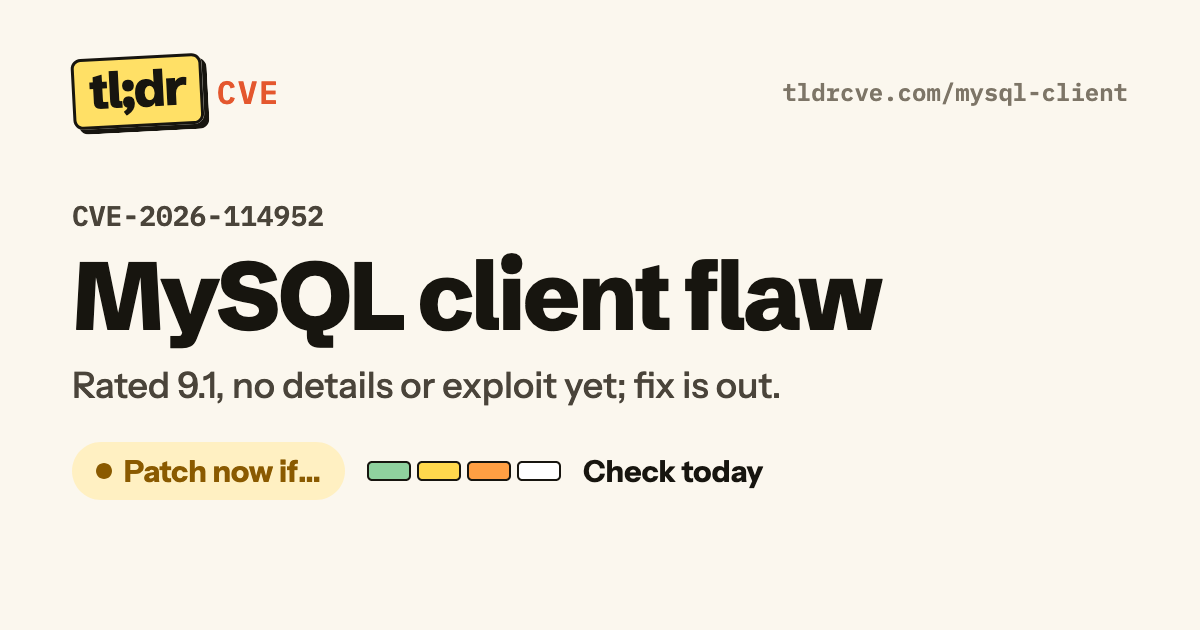
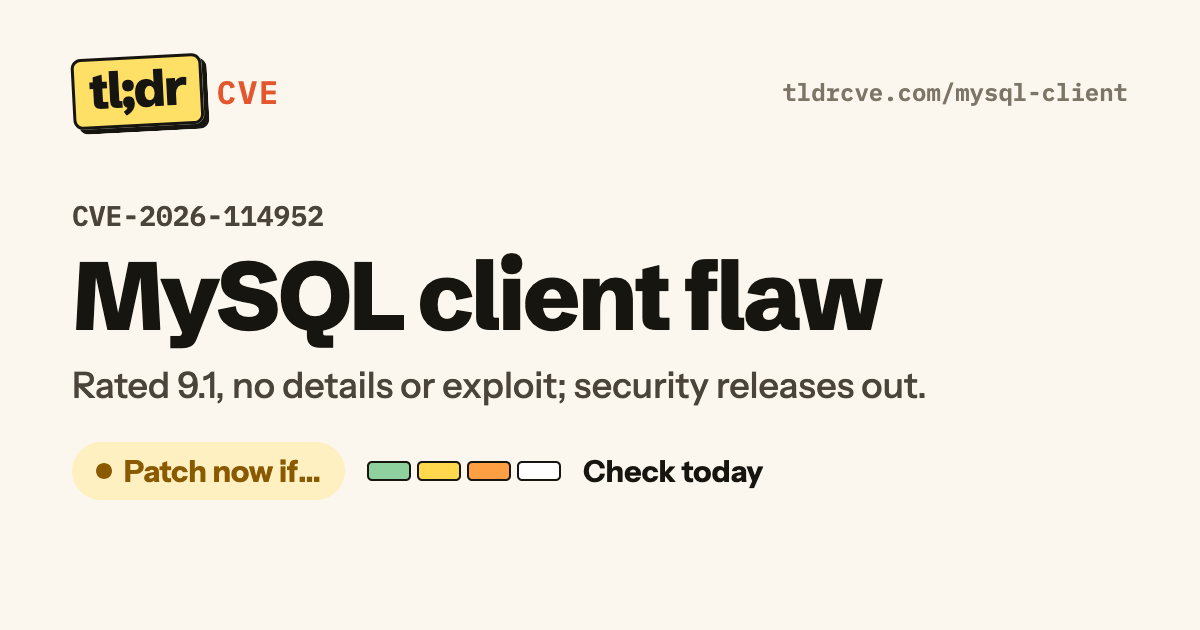
Review fixes from Sol, Codex and the blueprint checks
- Brotli: ELLIO reproduced the public exploit on official, unmodified Node.js
  builds and saw it in attacks, so the page no longer says it needs a weakened
  build; Java JNI wrappers are affected; patched 1.0.10 and 1.1.1 excluded.
- MySQL: TL;DR covers MySQL Cluster 8.0 (fixes on 26 Nov); the second GitHub
  exploit's link to this CVE is unverified; tile says security releases are out.
- Wording and support fixes on iTerm2, Next.js, 4EverAble2Shell, Cisco,
  Java4Shell, OpenSSL, React, SGLang and Synology; tile lines on LiteLLM, PHP,
  Spring and WhatsApp; five TL;DRs cut to three sentences.
- Changelog: Brotli, REDCap, Tomcat, Next.js and SSHole entries are material.
- Feed: Brotli's old 20 Nov GUID added to LEGACY_GUIDS, so no live item is
  re-sent.
- AGENTS.md: one affected range or one update target is fine in a TL;DR; fix
  steps may quote the vendor's exact upgrade command, checks stay read-only.

Changed region(s): [[0.4625, 0.573, 0.7708, 0.6333]]

diff --git a/build.py b/build.py
@@ -1292,6 +1292,7 @@ LEGACY_GUIDS = {
     "react-typed-array-rce-2026-11-21-0": "react-typed-array-rce-2026-11-21-1",
     "wordpress-7-1-5-2026-11-21-0": "wordpress-7-1-5-2026-11-21-1",
     "nextjs-image-rce-2026-11-21-0": "nextjs-image-rce-2026-11-21-1",
+    "brotli-2026-11-20-0": "brotli-2026-11-20-1",
 }
 
 

diff --git a/AGENTS.md b/AGENTS.md
@@ -78,7 +78,7 @@ Copy the shape of an existing file (`content/nginx2root.json` is a good model).
 | `updated` | `YYYY-MM-DD` of the last edit |
 | `verdict` | `now`, `if`, `cycle` or `watch` (see below) |
 | `tile_line` | The reason for the verdict, about 55 chars max. It sits next to the verdict badge and on the link card, so never repeat the verdict or the action ("Exploited, no login. In CISA KEV.", not "Patch now.") |
-| `tldr` | **Required, ≤ 256 chars.** The answer, in up to three short, plain sentences, in this order: what it is, how scary (exploit, attacks, KEV), who is affected, what to do. Don't open with the page's nickname ("NoisyTCP: …"; the title is right above); the product as the subject ("SGLang, a popular AI model server, …") is fine. No commands, version lists or dates that go stale (KEV due dates). Used at the top of the page and as the meta description, the feed item and the "Copy TL;DR" text. Every claim must already be on the page; update it whenever the verdict, status or fix changes. When it corrects something the page said before, add a `changes[]` entry so feed readers see the correction |
+| `tldr` | **Required, ≤ 256 chars.** The answer, in up to three short, plain sentences, in this order: what it is, how scary (exploit, attacks, KEV), who is affected, what to do. Don't open with the page's nickname ("NoisyTCP: …"; the title is right above); the product as the subject ("SGLang, a popular AI model server, …") is fine. No commands, lists of several fixed versions, or dates that go stale (KEV due dates); one affected range or one version to update to is fine. Used at the top of the page and as the meta description, the feed item and the "Copy TL;DR" text. Every claim must already be on the page; update it whenever the verdict, status or fix changes. When it corrects something the page said before, add a `changes[]` entry so feed readers see the correction |
 | `summary` | **More details**, under the TL;DR: 1-3 sentences with only what the TL;DR leaves out, such as how the bug works, who found it, numbers, where sources disagree, related bugs, useful trivia and the one setting or command that matters most. Never repeat the TL;DR, but don't drop facts either: each one belongs in the TL;DR, here, or a section below |
 | `status.exploit` | `public` (working code anyone can download), `demonstrated` (shown, code not public) or `none` |
 | `status.attacks` | `seen` (a credible, named report) or `none` |
@@ -123,7 +123,7 @@ When a vulnerability gets attention but doesn't qualify yet, record it instead o
   - Never invent versions, flags, commands or dates.
   - When sources conflict, say so on the page.
 - **"Are you affected?"** lists only conditions that must all be true. No "or" items. Fold "not affected if…" details into the matching condition.
-- **Commands** must be read-only and exact.
+- **Commands** must be exact. Check commands (`cmd` fields, "Are you affected?") must be read-only; a fix step may name the vendor's own upgrade or restart command, quoted exactly.
 - Text fields support `code` and links to site pages only: `[label](/slug/)`.
 - **Verdict, checklist and scare level** must agree:
   - `now`: working exploit or attacks seen, and common setups are exposed.
